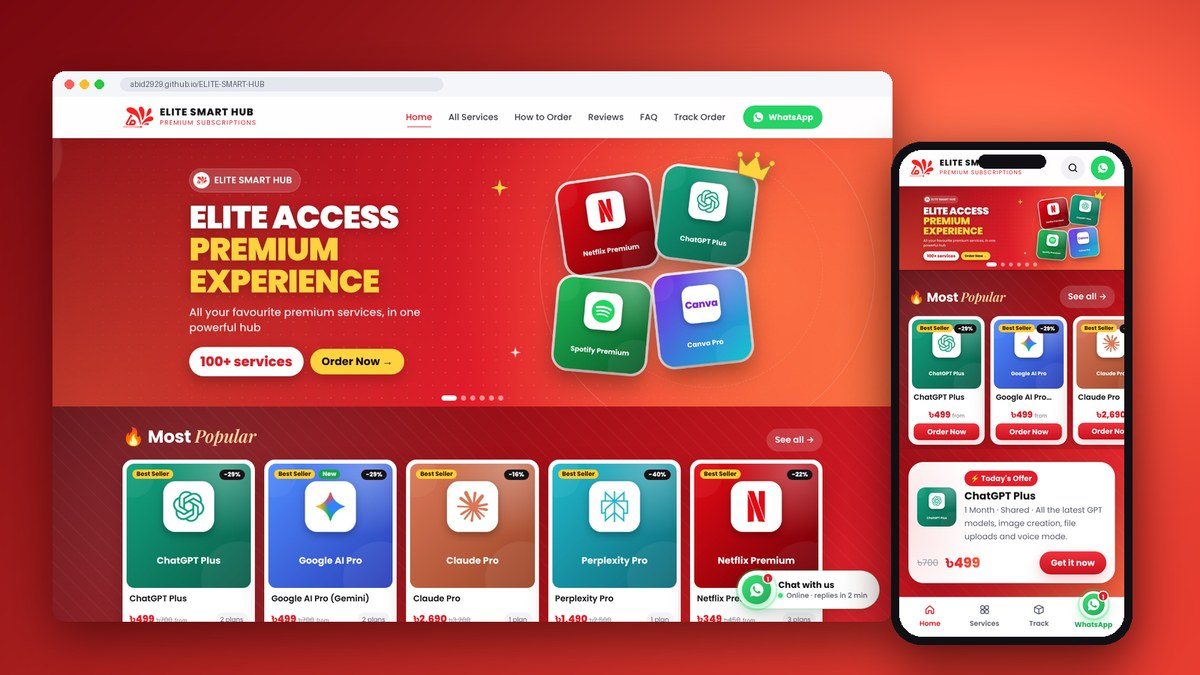
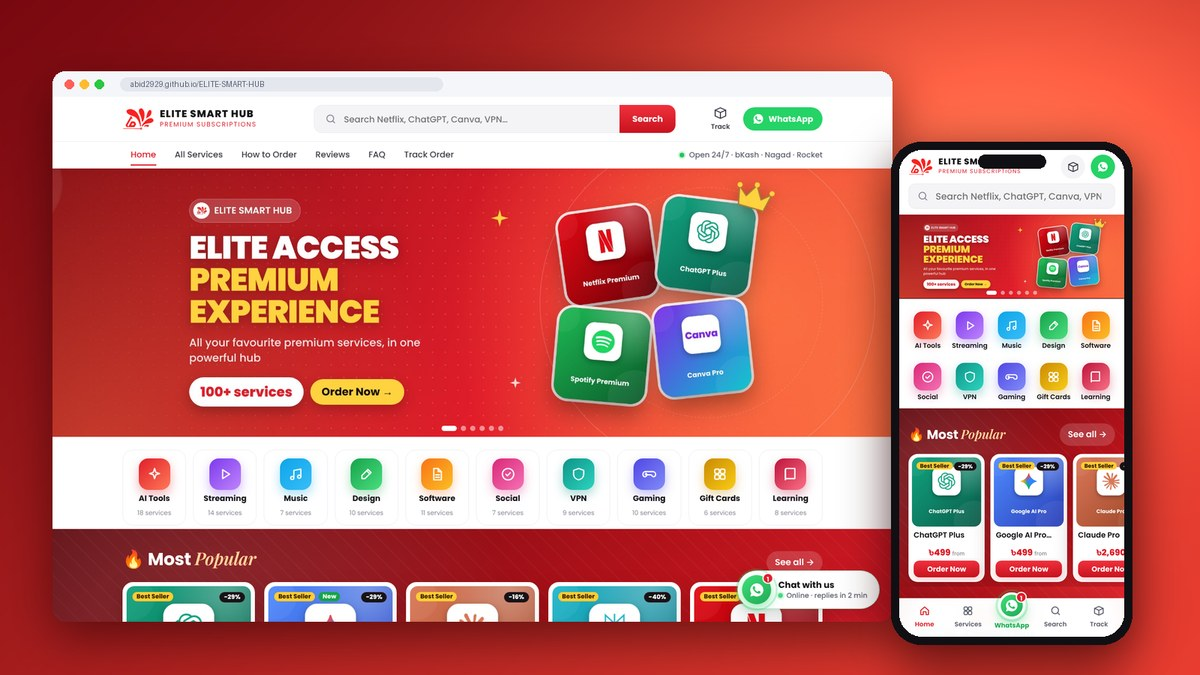
Elite Smart Hub: v4 screenshot and description

diff --git a/README.md b/README.md
@@ -116,7 +116,7 @@
 <td colspan="3" valign="top">
 <a href="https://abid2929.github.io/ELITE-SMART-HUB/"><img src="assets/sites/elite-smart-hub.jpg" alt="Elite Smart Hub premium subscription shop on PC and phone" width="52%" align="left"></a>
 <h3>👑 Elite Smart Hub <sup><kbd>NEW</kbd></sup></h3>
-<p>Bright red and white premium shop for 100+ digital subscriptions: ChatGPT, Google AI Pro, Claude, Netflix, Spotify, Canva, CapCut, VPN and game top-ups. Colourful banner slider, real service logos, "Most Popular" picks, today's offer, a page for every product with its plans, How to order, Reviews, FAQ and Track order pages, bKash / Nagad / Rocket payment and WhatsApp chat, plus a Bangla admin panel.</p>
+<p>Bright red and white premium shop for 100+ digital subscriptions: ChatGPT, Google AI Pro, Claude, Netflix, Spotify, Canva, CapCut, VPN and game top-ups. Big search bar with instant results, 10 category shortcuts, colourful banner slider, real service logos, "Most Popular" picks, a page for every product with its plans, How to order, Reviews, FAQ and Track order pages, bKash / Nagad / Rocket payment, an app-style 5-tab phone bar and WhatsApp chat, plus a Bangla admin panel.</p>
 <p><kbd>HTML</kbd> <kbd>JavaScript</kbd> <kbd>PHP</kbd> <kbd>JSON</kbd> <kbd>Admin panel</kbd></p>
 <p>🔗 <a href="https://abid2929.github.io/ELITE-SMART-HUB/"><b>Visit shop</b></a> · <a href="https://abid2929.github.io/ELITE-SMART-HUB/admin/">Admin demo</a> · <a href="https://github.com/abid2929/ELITE-SMART-HUB">Code</a></p>
 </td>
